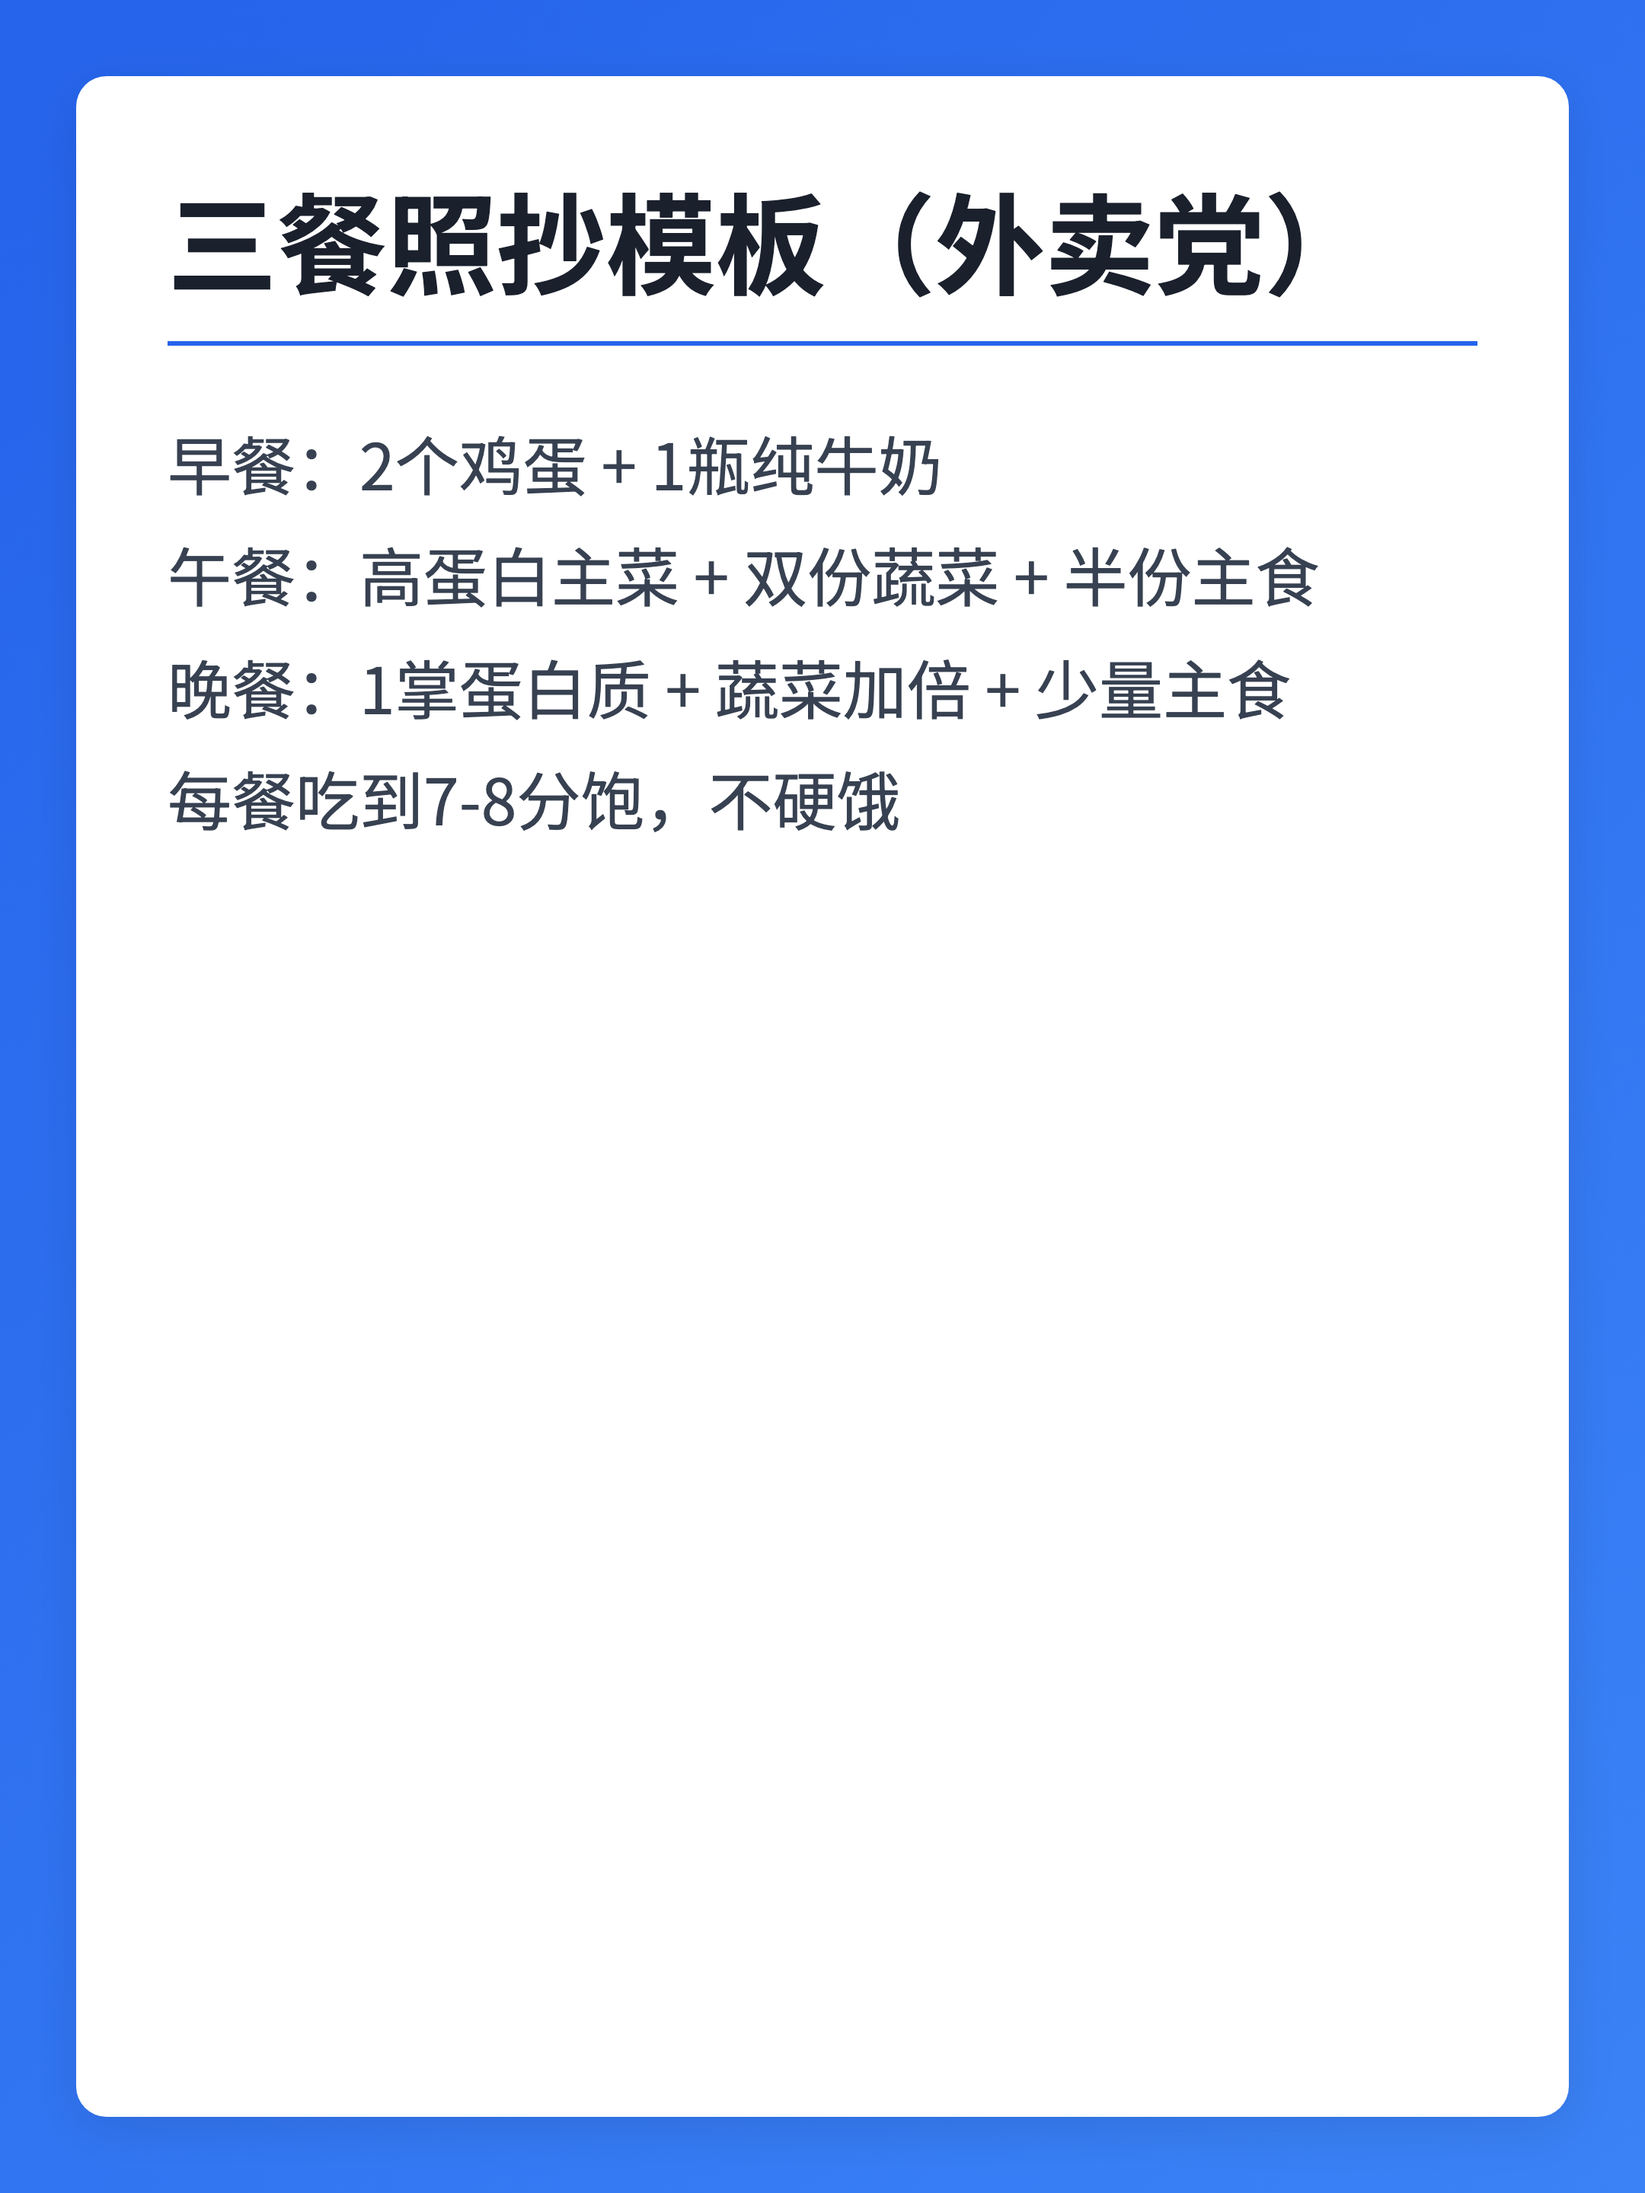
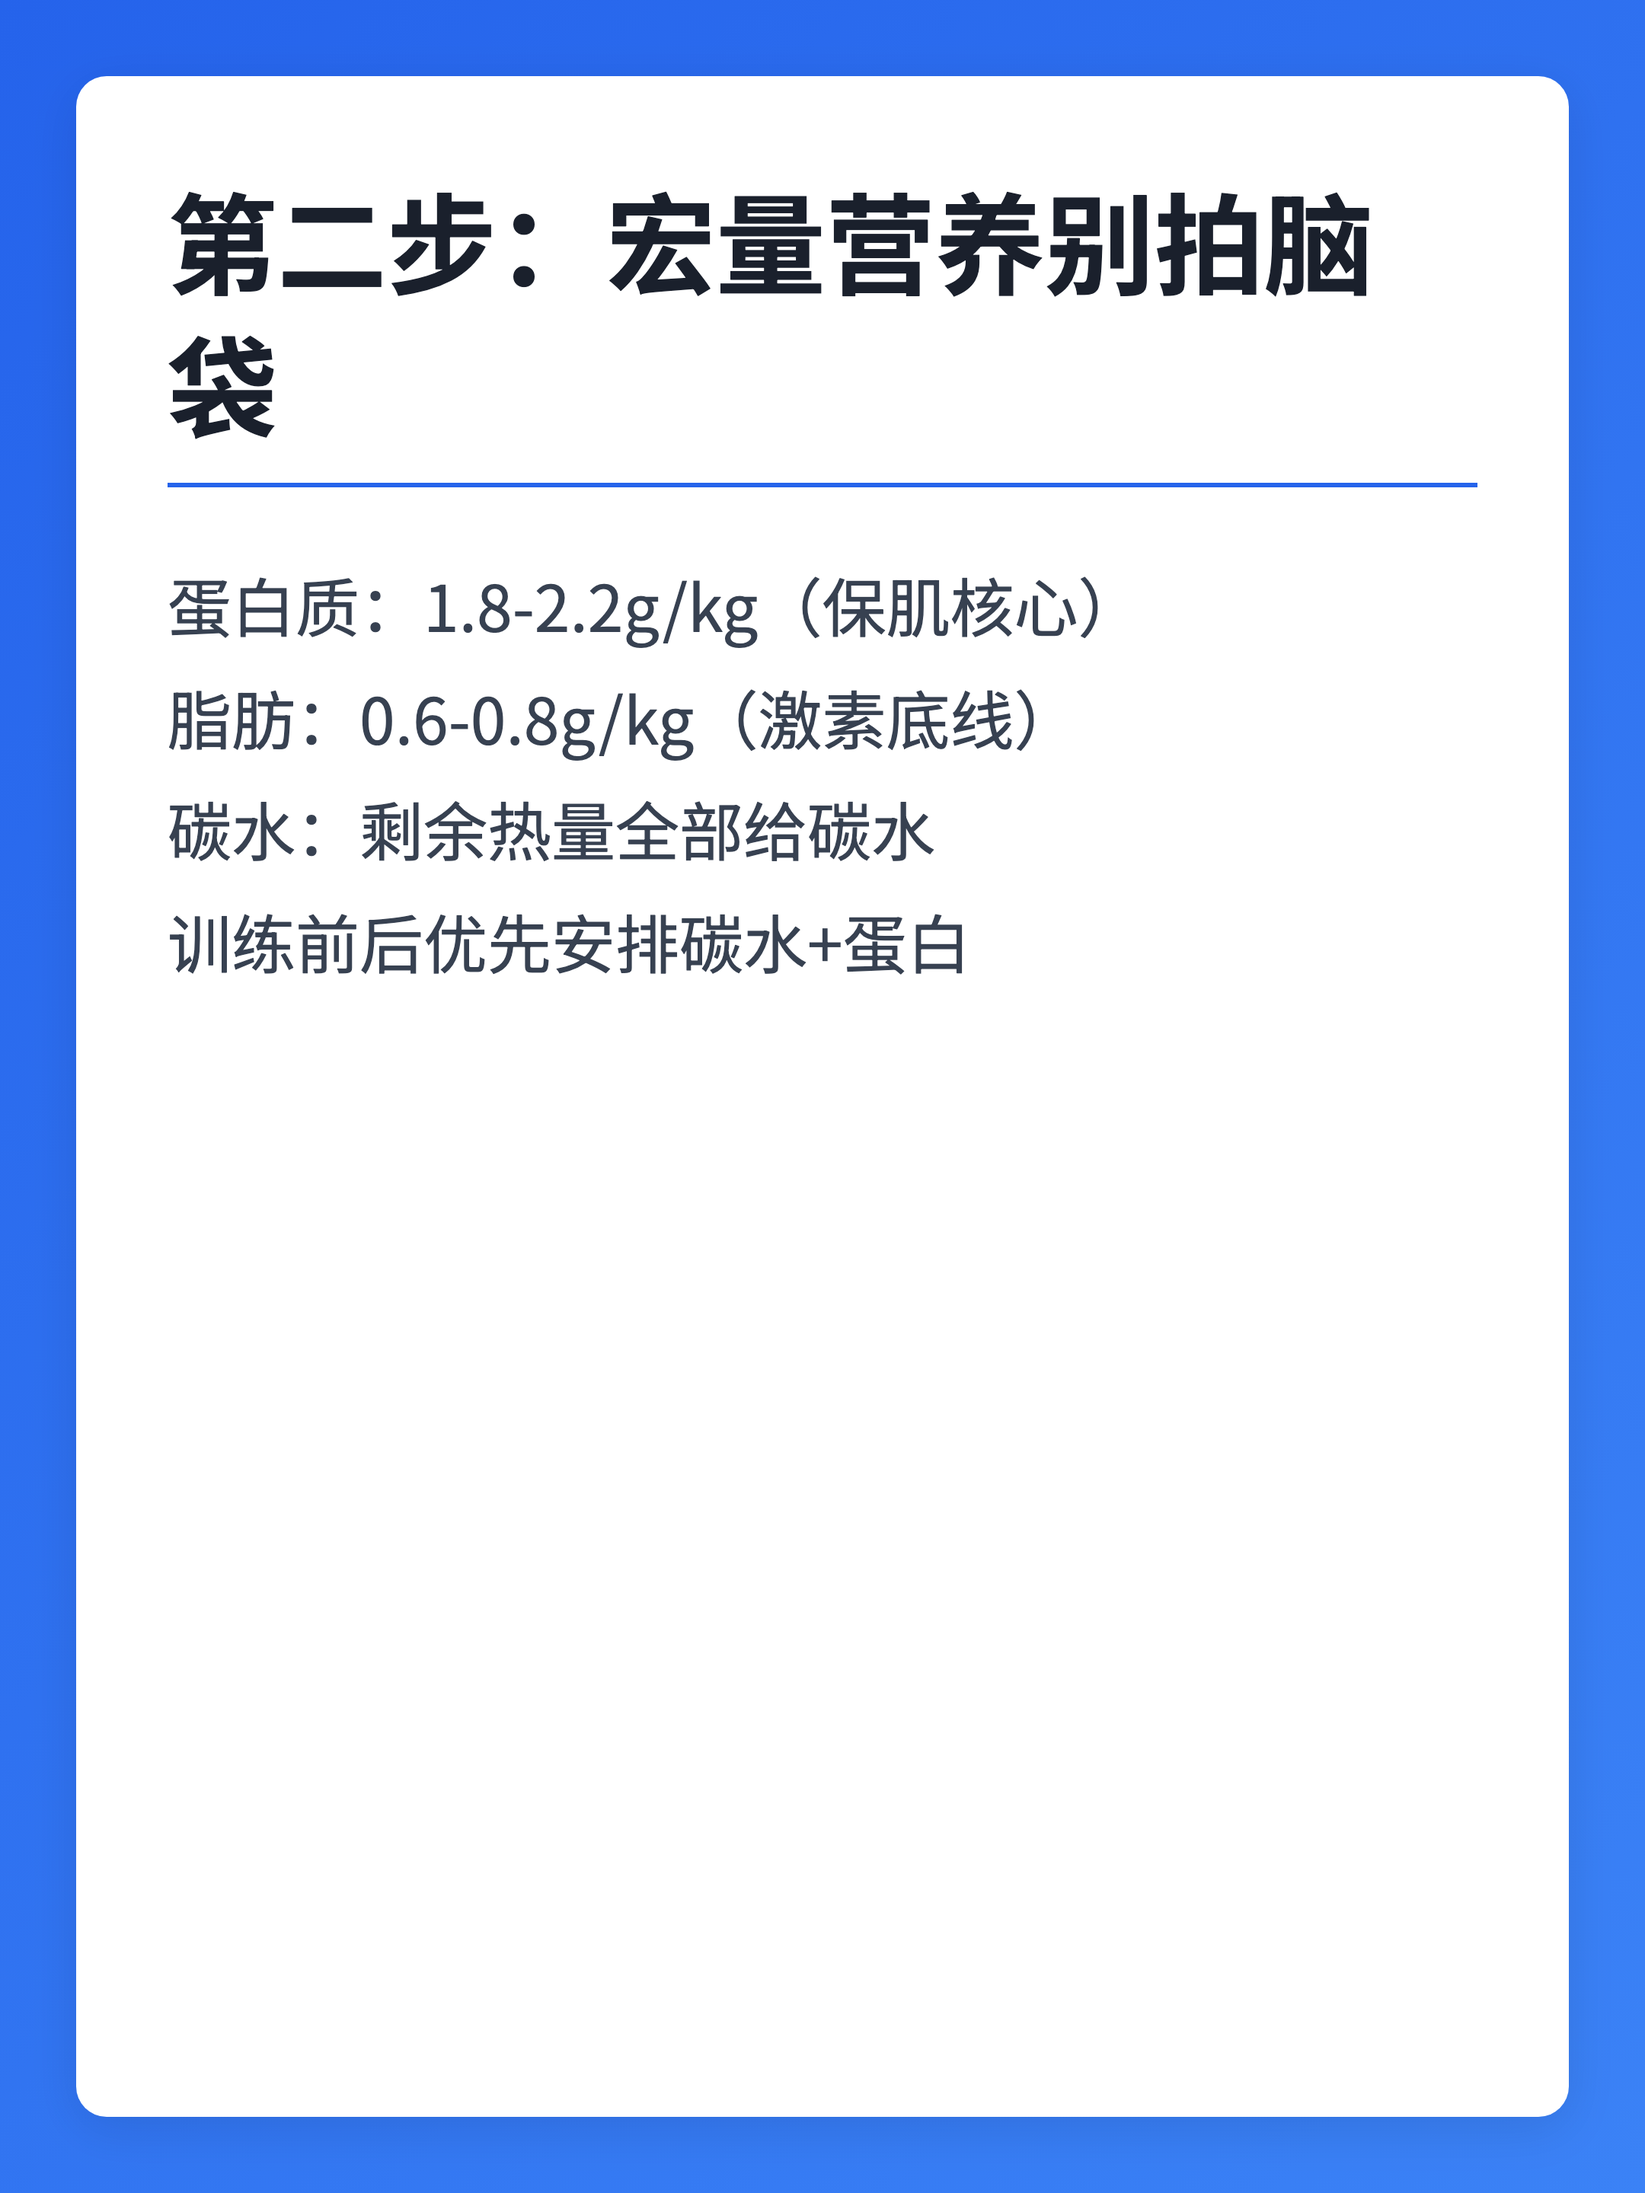
vault backup: 2026-03-03 16:50:05

Changed region(s): [[0.0931, 0.0625, 0.8375, 0.4375]]

diff --git a/小红书/草稿箱/2026-03-03-外卖减脂30天照抄版.md b/小红书/草稿箱/2026-03-03-外卖减脂30天照抄版.md
@@ -1,17 +1,17 @@
 ---
 emoji: "🥗"
 title: "外卖减脂30天"
-subtitle: "不掉肌三餐照抄版"
-xhs_title: "外卖减脂30天｜不掉肌三餐照抄版"
+subtitle: "不掉肌执行SOP"
+xhs_title: "外卖减脂30天不掉肌SOP"
 xhs_tags:
   - 外卖减脂
   - 减脂不掉肌
-  - 打工人减脂
+  - 减脂SOP
+  - 体重管理
   - 高蛋白饮食
-  - 外卖点单公式
-  - 体脂率管理
-  - 男生健身
-  - 减脂干货
+  - 外卖点单
+  - 打工人减脂
+  - 健身干货
 theme: professional
 mode: card
 status: draft
@@ -35,59 +35,65 @@ source_notes:
 > | 笔记 | 标题 | 亮点 |
 > |---|---|---|
 > | 1 | 外卖党减脂不踩坑！2款点餐公式+办公室运动（搜狐） | 用“公式化点单”降低执行门槛，强调可复制性 |
-> | 2 | 减脂期外卖不踩雷，6类清单掉秤速度翻倍（值得买） | 场景覆盖广，用户可按平台和菜系快速决策 |
+> | 2 | 减脂期外卖不踩雷，6类清单掉秤速度翻倍（值得买） | 场景覆盖广，用户可按菜系快速决策 |
 > | 3 | 减脂期外卖封神指南：从麻辣烫到汉堡（值得买） | 高低热量对照+替换逻辑，实操感强 |
-> | 4 | 减肥也能点外卖，这样吃真的不会胖（知乎） | 强调“主食可吃但控量”，减轻心理负担 |
+> | 4 | 减肥也能点外卖，这样吃真的不会胖（知乎） | 强调“主食可吃但控量”，降低执行压力 |
 >
-> **竞品共性**：数字化标题、模板化点单公式、避坑清单、评论区口令领取资料
+> **本稿差异化**：在“照抄模板”外，增加热量计算、宏量阈值、监控指标和卡点微调规则，提升收藏价值
 >
 > **历史高频标签参考**：男生健身(1次)、体脂率(1次)
 
 ## 发布文案
 
-外卖党减脂最怕两件事：吃太少坚持不住，吃太乱又掉肌。这个「30天照抄版」给你直接执行框架：先把每日热量缺口控制在300-500kcal，再把蛋白质稳定到1.6-2.0g/kg体重。三餐不用花活，直接照抄：早餐2个鸡蛋+1瓶纯牛奶；午餐高蛋白主菜+双份蔬菜+半份主食；晚餐1掌蛋白质+蔬菜加倍+少量主食。点外卖只记一个公式：1份高蛋白主菜+2份蔬菜+0.5份主食+0糖饮料，备注少油少盐、酱汁分装。先连续执行14天，再看体重7日均线和腰围微调，不要天天改计划。想要《30天外卖点单关键词清单》，评论区打：30天照抄。
+很多外卖减脂失败，不是不自律，而是没有“监控-决策-执行”闭环。这个30天不掉肌SOP，核心就4步：先算热量，再定宏量，再按点单决策树吃，最后每周按数据微调。维持热量先用体重(kg)×28-32估算，减脂期只减300-500kcal，别一上来极端节食。蛋白质拉到1.8-2.2g/kg，脂肪守住0.6-0.8g/kg，其余给碳水，训练前后优先吃。外卖固定公式是1份高蛋白主菜+2份蔬菜+0.5份主食+0糖饮料，备注酱汁分装少油少盐。每周只看7日均重、腰围、力量表现和步数，不看单日体重。两周不降再减100-150kcal或多走2000步；掉太快且力量下滑就加20-30g碳水。按这套走30天，掉脂同时更容易保住训练状态。想要《20/30/40元外卖点单模板》，评论区打：预算表。
 
 ---
 
-# 30天先守住这3条
+# 第一步：先算你的减脂热量
 
-热量缺口：300-500kcal/天  
-蛋白质：1.6-2.0g/kg体重  
-每周体重下降：0.3-0.7kg最稳  
-先执行14天，再按7日均重微调
-
----
-
-# 三餐照抄模板（外卖党）
-
-早餐：2个鸡蛋 + 1瓶纯牛奶  
-午餐：高蛋白主菜 + 双份蔬菜 + 半份主食  
-晚餐：1掌蛋白质 + 蔬菜加倍 + 少量主食  
-每餐吃到7-8分饱，不硬饿
+维持热量≈体重(kg)×28-32  
+减脂热量=维持热量-300~500kcal  
+目标降重速度=每周体重的0.3%-0.7%  
+80kg示例：每周降0.24-0.56kg最稳
 
 ---
 
-# 外卖点单万能公式
+# 第二步：宏量营养别拍脑袋
 
-1份高蛋白主菜 + 2份蔬菜 + 0.5份主食 + 0糖饮料  
-备注：少油少盐、酱汁分装、饭减半  
-优先关键词：鸡胸、牛肉、虾仁、卤蛋、豆腐  
-避坑：炸物、重油盖饭、奶茶酒精
-
----
-
-# 30天执行节奏（照抄）
-
-第1-14天：严格按模板吃  
-第15-30天：根据体重和腰围微调  
-训练前后优先吃主食，平时少量分配  
-每周拍一次同角度对比图，防止体感误差
+蛋白质：1.8-2.2g/kg（保肌核心）  
+脂肪：0.6-0.8g/kg（激素底线）  
+碳水：剩余热量全部给碳水  
+训练前后优先安排碳水+蛋白
 
 ---
 
-# 周末聚餐不反弹 SOP
+# 第三步：外卖点单决策树
 
-顺序：先蛋白质 → 再蔬菜 → 最后主食  
-聚餐当天不补偿性断食  
-次日直接恢复减脂餐 + 正常训练  
-评论“30天照抄”领点单关键词清单
+先选主菜蛋白：鸡胸/牛肉/虾/鱼/豆腐  
+再补2份蔬菜：深色菜优先，少油做法  
+主食默认半份：训练前后可调到1份  
+统一备注：酱汁分装、少油少盐、饭减半
+
+---
+
+# 第四步：每周只看4个指标
+
+体重看7日均值，不看单日波动  
+腰围每周同时间测1次  
+训练表现看核心动作重量/次数  
+日均步数≥8000，饮水2-2.5L
+
+---
+
+# 卡住就按这3条微调（收藏）
+
+A：两周均重不降+腰围不变  
+→ -100~150kcal 或 日均+2000步
+
+B：每周降重>1%且力量下滑  
+→ +20~30g碳水，优先加在训练前后
+
+C：体重不变但腰围在降  
+→ 先别改计划，继续执行1周
+
+评论“预算表”领20/30/40元点单模板

diff --git a/小红书/草稿箱/.tmp-2026-03-03-外卖减脂30天照抄版-render.md b/小红书/草稿箱/.tmp-2026-03-03-外卖减脂30天照抄版-render.md
@@ -1,0 +1,54 @@
+---
+emoji: "🥗"
+title: "外卖减脂30天"
+subtitle: "不掉肌执行SOP"
+---
+
+# 第一步：先算你的减脂热量
+
+维持热量≈体重(kg)×28-32  
+减脂热量=维持热量-300~500kcal  
+目标降重速度=每周体重的0.3%-0.7%  
+80kg示例：每周降0.24-0.56kg最稳
+
+---
+
+# 第二步：宏量营养别拍脑袋
+
+蛋白质：1.8-2.2g/kg（保肌核心）  
+脂肪：0.6-0.8g/kg（激素底线）  
+碳水：剩余热量全部给碳水  
+训练前后优先安排碳水+蛋白
+
+---
+
+# 第三步：外卖点单决策树
+
+先选主菜蛋白：鸡胸/牛肉/虾/鱼/豆腐  
+再补2份蔬菜：深色菜优先，少油做法  
+主食默认半份：训练前后可调到1份  
+统一备注：酱汁分装、少油少盐、饭减半
+
+---
+
+# 第四步：每周只看4个指标
+
+体重看7日均值，不看单日波动  
+腰围每周同时间测1次  
+训练表现看核心动作重量/次数  
+日均步数≥8000，饮水2-2.5L
+
+---
+
+# 卡住就按这3条微调（收藏）
+
+A：两周均重不降+腰围不变  
+→ -100~150kcal 或 日均+2000步
+
+B：每周降重>1%且力量下滑  
+→ +20~30g碳水，优先加在训练前后
+
+C：体重不变但腰围在降  
+→ 先别改计划，继续执行1周
+
+评论“预算表”领20/30/40元点单模板
